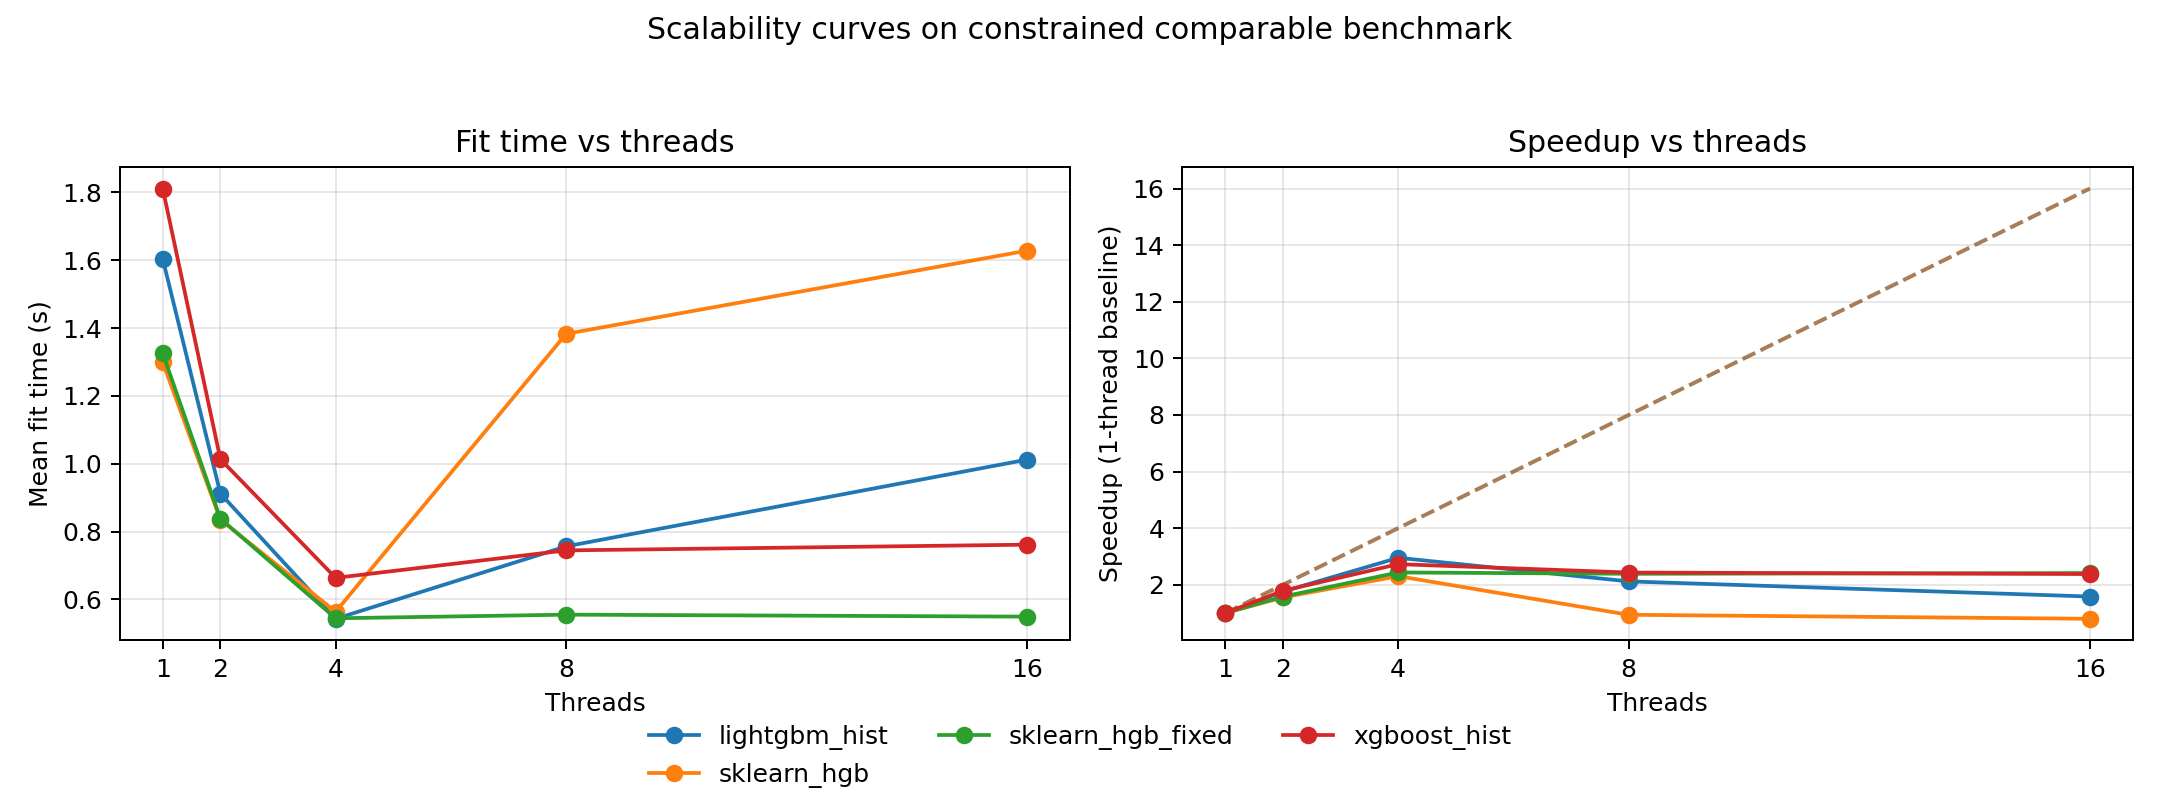
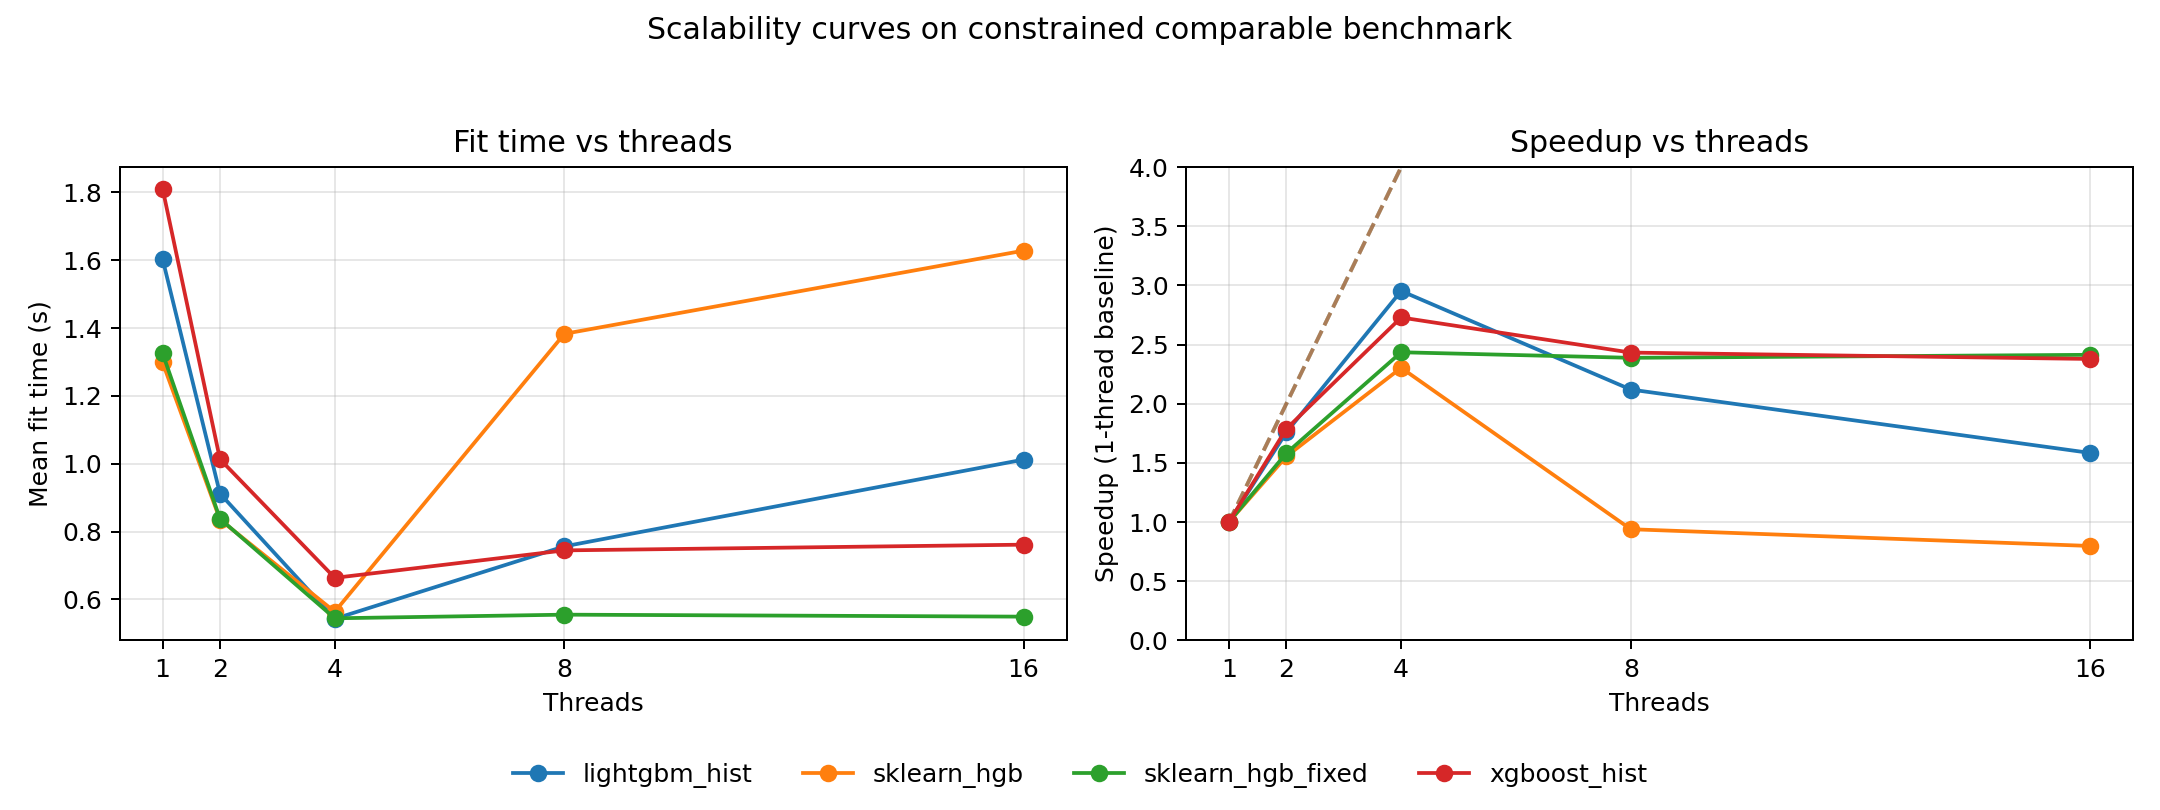
Move deep-few-trees plot and regenerate speedup charts

diff --git a/hgbdt_performance_analysis/README.md b/hgbdt_performance_analysis/README.md
@@ -66,6 +66,15 @@ Core scripts:
    - Extended implementation comparison:
      - [`artifacts/oversubscription_xgboost_vs_sklearn_impl_analysis.md`](artifacts/oversubscription_xgboost_vs_sklearn_impl_analysis.md)
 
+5. **In the deep-few-trees regime, sklearn leads at 1-2 threads while LightGBM is fastest at 4 threads.**
+   - Regime analysis and data:
+     - [`artifacts/deep_few_trees_report.md`](artifacts/deep_few_trees_report.md)
+     - [`artifacts/deep_few_trees_analysis.md`](artifacts/deep_few_trees_analysis.md)
+     - [`artifacts/deep_few_trees_results.json`](artifacts/deep_few_trees_results.json)
+     - [`artifacts/deep_few_trees_scalability_data.json`](artifacts/deep_few_trees_scalability_data.json)
+
+     ![Deep few trees scalability plot](artifacts/deep_few_trees_scalability.png)
+
 ## Implementation strategy to improve sklearn efficiency (for the slow setting)
 
 Priority plan:
@@ -95,5 +104,3 @@ Rationale and evidence links:
   - [`artifacts/deep_few_trees_results.json`](artifacts/deep_few_trees_results.json)
   - [`artifacts/deep_few_trees_scalability_data.json`](artifacts/deep_few_trees_scalability_data.json)
   - [`artifacts/deep_few_trees_scalability.png`](artifacts/deep_few_trees_scalability.png)
-
-  ![Deep few trees scalability plot](artifacts/deep_few_trees_scalability.png)